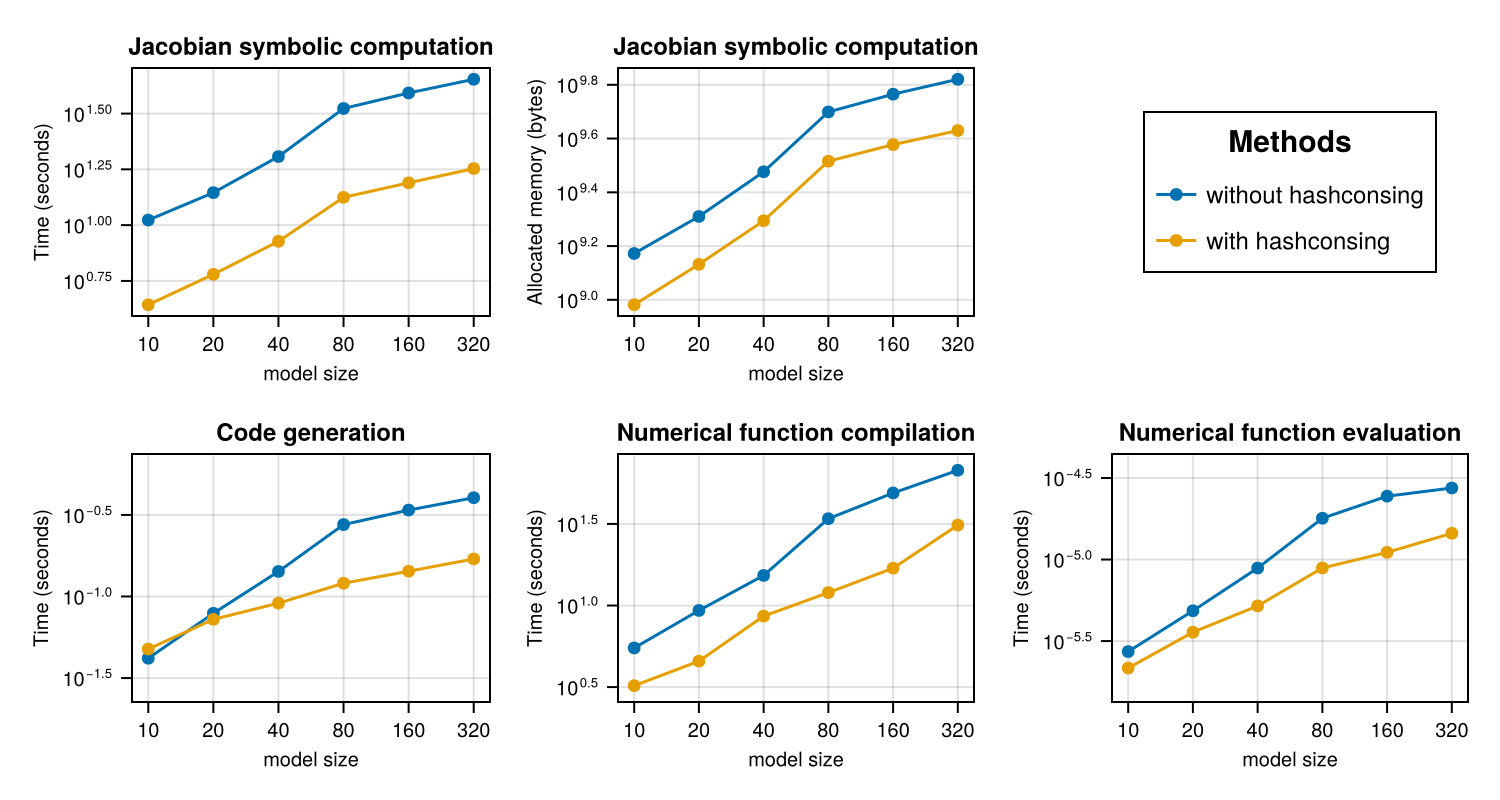
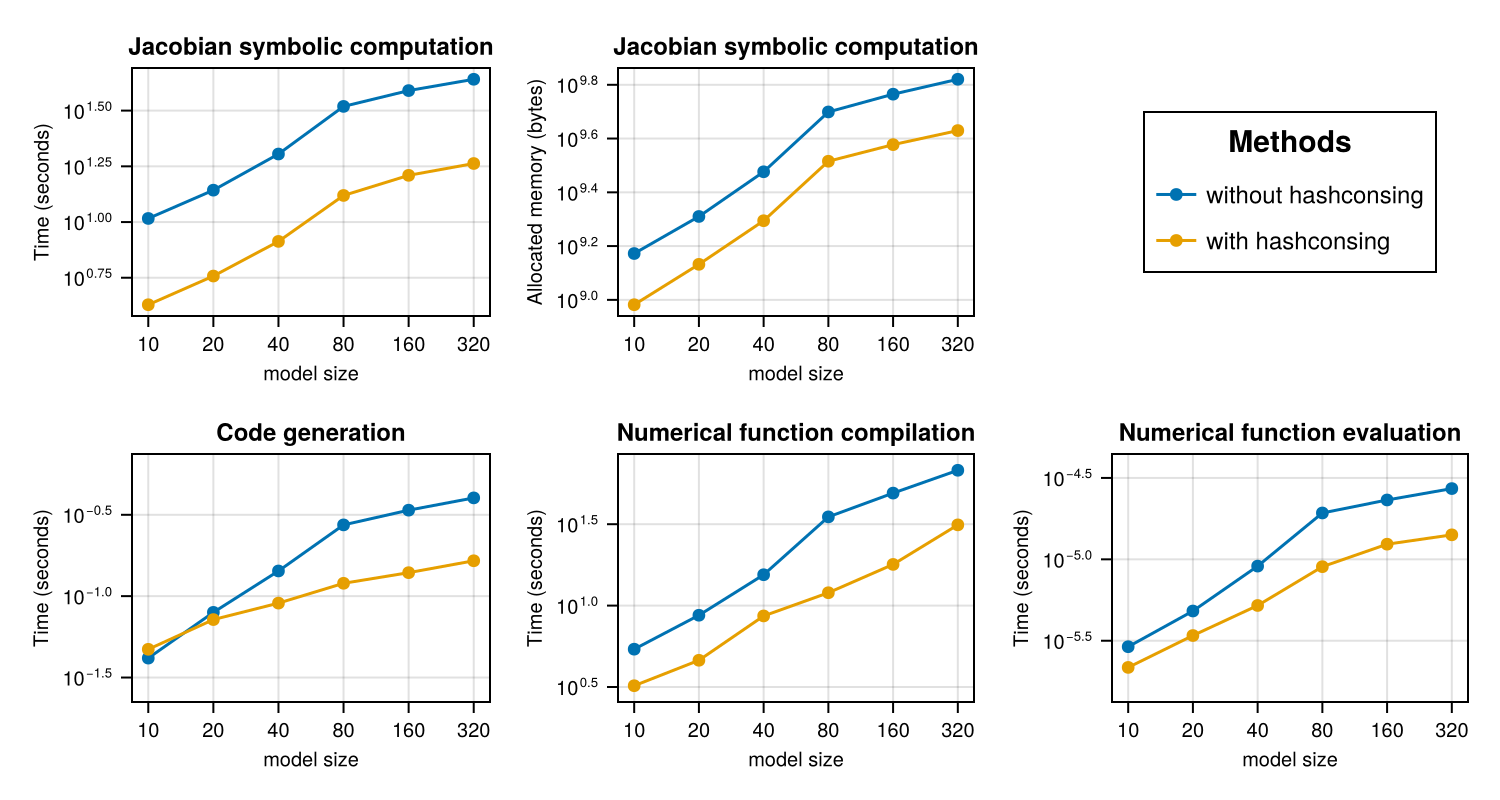
Automatic build\nPublished by build of: https://github.com/SciML/SciMLBenchmarks.jl/commit/9680043776a41864085e444cf6ef32616649b383

diff --git a/markdown/Symbolics/ThermalFluid.md b/markdown/Symbolics/ThermalFluid.md
@@ -16,6 +16,25 @@ using SparseArrays, Chairmarks, Statistics
 using ModelingToolkit: t_nounits as t, D_nounits as D
 ```
 
+```
+Error: Unsatisfiable requirements detected for package Catalyst [479239e8]:
+ Catalyst [479239e8] log:
+ ├─possible versions are: 5.0.0-15.0.8 or uninstalled
+ ├─restricted to versions 15 by project [ff517f8d], leaving only versions: 
+15.0.0-15.0.8
+ │ └─project [ff517f8d] log:
+ │   ├─possible versions are: 0.0.0 or uninstalled
+ │   └─project [ff517f8d] is fixed to version 0.0.0
+ └─restricted by compatibility requirements with CairoMakie [13f3f980] to v
+ersions: 5.0.0-14.0.1 or uninstalled — no versions left
+   └─CairoMakie [13f3f980] log:
+     ├─possible versions are: 0.0.1-0.15.6 or uninstalled
+     └─restricted to versions 0.15 by project [ff517f8d], leaving only vers
+ions: 0.15.0-0.15.6
+       └─project [ff517f8d] log: see above
+```
+
+
 
 
 
@@ -257,7 +276,9 @@ end
 ```
 
 ```
-call (generic function with 1 method)
+Error: LoadError: UndefVarError: `@connector` not defined
+in expression starting at /cache/build/exclusive-amdci3-0/julialang/scimlbe
+nchmarks-dot-jl/benchmarks/Symbolics/ThermalFluid.jmd:28
 ```
 
 
@@ -357,7 +378,9 @@ end
 ```
 
 ```
-run_and_time_call! (generic function with 1 method)
+Error: LoadError: UndefVarError: `SymbolicUtils` not defined
+in expression starting at /cache/build/exclusive-amdci3-0/julialang/scimlbe
+nchmarks-dot-jl/benchmarks/Symbolics/old_sparse_jacobian.jl:21
 ```
 
 
@@ -403,20 +426,7 @@ end
 ```
 
 ```
-61.197094 seconds (231.39 M allocations: 7.315 GiB, 1.29% gc time, 0.05% c
-ompilation time)
- 63.170876 seconds (233.18 M allocations: 7.346 GiB, 1.54% gc time, 0.31% c
-ompilation time)
- 70.035612 seconds (235.22 M allocations: 7.444 GiB, 1.46% gc time, 0.36% c
-ompilation time)
-103.731239 seconds (260.96 M allocations: 8.272 GiB, 1.22% gc time, 0.01% c
-ompilation time)
-315.282988 seconds (404.44 M allocations: 12.932 GiB, 0.75% gc time, 0.01% 
-compilation time)
-1805.995384 seconds (997.48 M allocations: 32.380 GiB, 0.40% gc time, 0.00%
- compilation time)
-13171.506987 seconds (3.37 G allocations: 110.139 GiB, 0.23% gc time, 0.00%
- compilation time)
+Error: UndefVarError: `Chairmarks` not defined
 ```
 
 
@@ -432,8 +442,7 @@ pretty_table(tabledata; header, backend = Val(:html))
 ```
 
 ```
-Error: TypeError: in keyword argument backend, expected Symbol, got a value
- of type Val{:html}
+Error: UndefVarError: `pretty_table` not defined
 ```
 
 
@@ -490,7 +499,11 @@ save("thermal_fluid.pdf", f)
 f
 ```
 
-![](figures/ThermalFluid_7_1.png)
+```
+Error: UndefVarError: `Figure` not defined
+```
+
+
 
 
 
@@ -531,7 +544,7 @@ Environment:
 Package Information:
 
 ```
-Status `/cache/build/exclusive-amdci1-0/julialang/scimlbenchmarks-dot-jl/benchmarks/Symbolics/Project.toml`
+Status `/cache/build/exclusive-amdci3-0/julialang/scimlbenchmarks-dot-jl/benchmarks/Symbolics/Project.toml`
   [6e4b80f9] BenchmarkTools v1.6.0
 ⌃ [13f3f980] CairoMakie v0.13.10
 ⌃ [479239e8] Catalyst v15.0.1
@@ -554,12 +567,13 @@ Status `/cache/build/exclusive-amdci1-0/julialang/scimlbenchmarks-dot-jl/benchma
   [2f01184e] SparseArrays v1.10.0
   [10745b16] Statistics v1.10.0
 Info Packages marked with ⌃ and ⌅ have new versions available. Those with ⌃ may be upgradable, but those with ⌅ are restricted by compatibility constraints from upgrading. To see why use `status --outdated`
+Warning The project dependencies or compat requirements have changed since the manifest was last resolved. It is recommended to `Pkg.resolve()` or consider `Pkg.update()` if necessary.
 ```
 
 And the full manifest:
 
 ```
-Status `/cache/build/exclusive-amdci1-0/julialang/scimlbenchmarks-dot-jl/benchmarks/Symbolics/Manifest.toml`
+Status `/cache/build/exclusive-amdci3-0/julialang/scimlbenchmarks-dot-jl/benchmarks/Symbolics/Manifest.toml`
   [47edcb42] ADTypes v1.17.0
   [621f4979] AbstractFFTs v1.5.0
   [1520ce14] AbstractTrees v0.4.5
@@ -1016,7 +1030,7 @@ Status `/cache/build/exclusive-amdci1-0/julialang/scimlbenchmarks-dot-jl/benchma
   [c8ffd9c3] MbedTLS_jll v2.28.2+1
   [14a3606d] MozillaCACerts_jll v2023.1.10
   [4536629a] OpenBLAS_jll v0.3.23+4
-  [05823500] OpenLibm_jll v0.8.5+0
+  [05823500] OpenLibm_jll v0.8.1+4
   [efcefdf7] PCRE2_jll v10.42.0+1
   [bea87d4a] SuiteSparse_jll v7.2.1+1
   [83775a58] Zlib_jll v1.2.13+1
@@ -1024,5 +1038,6 @@ Status `/cache/build/exclusive-amdci1-0/julialang/scimlbenchmarks-dot-jl/benchma
   [8e850ede] nghttp2_jll v1.52.0+1
   [3f19e933] p7zip_jll v17.4.0+2
 Info Packages marked with ⌃ and ⌅ have new versions available. Those with ⌃ may be upgradable, but those with ⌅ are restricted by compatibility constraints from upgrading. To see why use `status --outdated -m`
+Warning The project dependencies or compat requirements have changed since the manifest was last resolved. It is recommended to `Pkg.resolve()` or consider `Pkg.update()` if necessary.
 ```
 

diff --git a/markdown/Symbolics/BCR.md b/markdown/Symbolics/BCR.md
@@ -50,7 +50,7 @@ Parsing groups...done
 ────────────────────────────────────────────────────────────────────
                            Time                    Allocations      
                   ───────────────────────   ────────────────────────
-Tot / % measured:      7.72s /   0.0%            875MiB /   0.0%    
+Tot / % measured:      7.13s /   0.0%            876MiB /   0.0%    
 
 Section   ncalls     time    %tot     avg     alloc    %tot      avg
 ────────────────────────────────────────────────────────────────────
@@ -151,31 +151,31 @@ show(to)
                   Allocations      
                                                             ───────────────
 ────────   ────────────────────────
-                     Tot / % measured:                            523s /  9
-4.2%           36.1GiB /  91.5%    
+                     Tot / % measured:                            483s /  9
+3.9%           36.1GiB /  91.5%    
 
 Section                                             ncalls     time    %tot
      avg     alloc    %tot      avg
 ───────────────────────────────────────────────────────────────────────────
 ───────────────────────────────────
-Compile jacobian - no CSE                                1     218s   44.2%
-    218s   3.05GiB    9.2%  3.05GiB
-Compile jacobian - CSE                                   1    88.4s   17.9%
-   88.4s   0.95GiB    2.9%  0.95GiB
-Calculate jacobian - without hashconsing                 1    75.3s   15.3%
-   75.3s   10.5GiB   31.9%  10.5GiB
-Calculate jacobian - hashconsing, without caching        1    73.9s   15.0%
-   73.9s   10.5GiB   31.8%  10.5GiB
-Calculate jacobian - hashconsing and caching             1    31.0s    6.3%
-   31.0s   6.72GiB   20.4%  6.72GiB
-Build jacobian - no CSE                                  1    4.87s    1.0%
-   4.87s   1.10GiB    3.3%  1.10GiB
-Build jacobian - CSE                                     1    1.38s    0.3%
-   1.38s    160MiB    0.5%   160MiB
-Compute jacobian - no CSE                                1   78.1μs    0.0%
-  78.1μs      192B    0.0%     192B
-Compute jacobian - CSE                                   1   60.7μs    0.0%
-  60.7μs      192B    0.0%     192B
+Compile jacobian - no CSE                                1     192s   42.3%
+    192s   3.05GiB    9.2%  3.05GiB
+Compile jacobian - CSE                                   1    76.6s   16.9%
+   76.6s   0.95GiB    2.9%  0.95GiB
+Calculate jacobian - without hashconsing                 1    75.8s   16.7%
+   75.8s   10.5GiB   31.9%  10.5GiB
+Calculate jacobian - hashconsing, without caching        1    73.4s   16.2%
+   73.4s   10.5GiB   31.8%  10.5GiB
+Calculate jacobian - hashconsing and caching             1    30.2s    6.7%
+   30.2s   6.72GiB   20.4%  6.72GiB
+Build jacobian - no CSE                                  1    4.86s    1.1%
+   4.86s   1.10GiB    3.3%  1.10GiB
+Build jacobian - CSE                                     1    1.25s    0.3%
+   1.25s    160MiB    0.5%   160MiB
+Compute jacobian - no CSE                                1   86.5μs    0.0%
+  86.5μs      192B    0.0%     192B
+Compute jacobian - CSE                                   1   43.3μs    0.0%
+  43.3μs      192B    0.0%     192B
 ───────────────────────────────────────────────────────────────────────────
 ───────────────────────────────────
 ```
